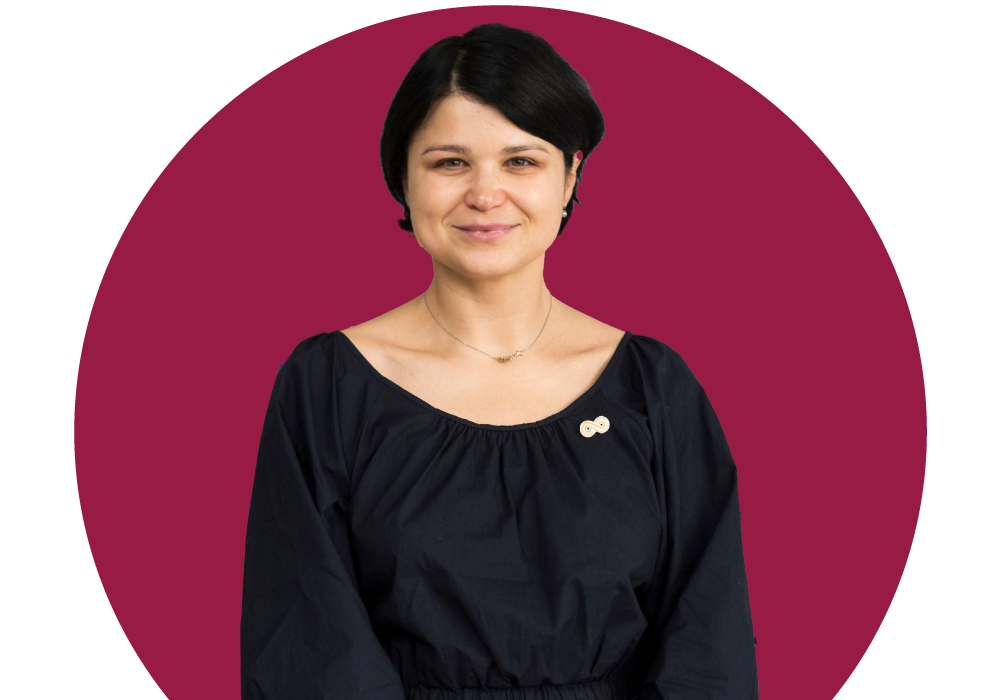
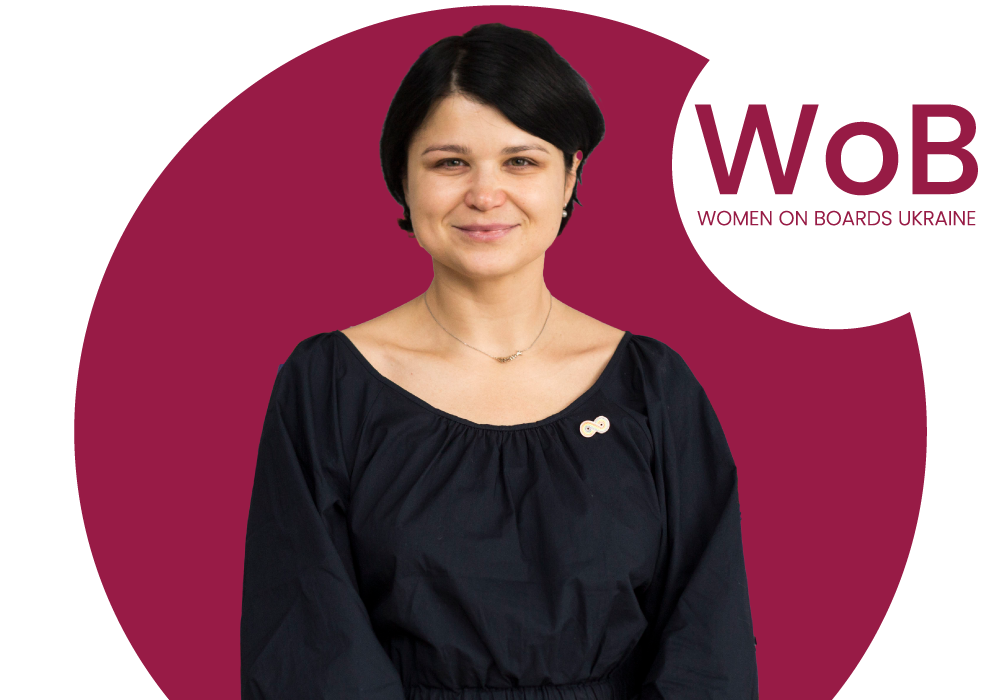
locales fix

Changed region(s): [[0.651, 0.09, 0.992, 0.48]]

diff --git a/components/HonorCircle/Members.js b/components/HonorCircle/Members.js
@@ -12,6 +12,8 @@ import Kaestner from "../../public/img/membership/Lisa-Kaestner.png";
 import Derevyanko from "../../public/img/membership/Anna-Derevyanko.png";
 import Voloshina from "../../public/img/membership/Voloshina.png";
 import Strashna from "../../public/img/membership/Oksana-Strashna.png";
+import Chopivsky from "../../public/img/membership/Alexa-Chopivsky.png";
+import Bielkova from "../../public/img/membership/Olga-Bielkova.png";
 
 const Members = ({ classes }) => {
   const { t } = useTranslation("honorCircle");
@@ -24,14 +26,22 @@ const Members = ({ classes }) => {
   };
 
   const linkedin = [
-    "https://www.linkedin.com/in/iryna-rubis/",
-    "https://www.linkedin.com/in/lisa-kaestner-1952341/",
-    "https://www.linkedin.com/in/anna-derevyanko-b5307a1/",
     "",
+    "https://www.linkedin.com/in/anna-derevyanko-b5307a1/",
+    "https://www.linkedin.com/in/lisa-kaestner-1952341/",
+    "https://www.linkedin.com/in/iryna-rubis/",
     "https://www.linkedin.com/in/ostrashna/",
   ];
 
-  const imgArr = [Rubis, Kaestner, Derevyanko, Voloshina, Strashna];
+  const imgArr = [
+    Voloshina,
+    Derevyanko,
+    Kaestner,
+    // Bielkova,
+    Rubis,
+    // Chopivsky,
+    Strashna,
+  ];
 
   const cards = t("members.cards", { returnObjects: true });
 

diff --git a/components/Home/Hero.js b/components/Home/Hero.js
@@ -3,22 +3,15 @@ import { Container, Row, Col } from "react-bootstrap";
 
 import CarouselComponent from "../ui/Carousel";
 
-// import classes from "./#Home.module.scss";
-
-// import Image from "next/image";
-
-import women from "../../public/img/women.png";
-
+import WobFounders from "../../public/img/home/WoB-founders.png";
 import test from "../../public/img/test.png";
 import test2 from "../../public/img/test-2.png";
-
-// import partnerLogo from "../../public/img/home/partner-wob.png";
 
 import Text from "../ui/Text";
 
 const Hero = () => {
   const { t } = useTranslation("home");
-  const imgArr = [women, test, test2];
+  const imgArr = [WobFounders, test, test2];
   const first = imgArr[0];
   let rest = imgArr.slice(1);
   for (let i = rest.length - 1; i > 0; i--) {

diff --git a/components/Home/Icons.js b/components/Home/Icons.js
@@ -29,7 +29,6 @@ const Icons = () => {
                 src={iconsImg[index]}
                 alt={icon}
                 width={80}
-                placeholder="blur"
                 className="mb-2"
               />
               <p className="text-italic text-center blue pb-3">{icon}</p>
